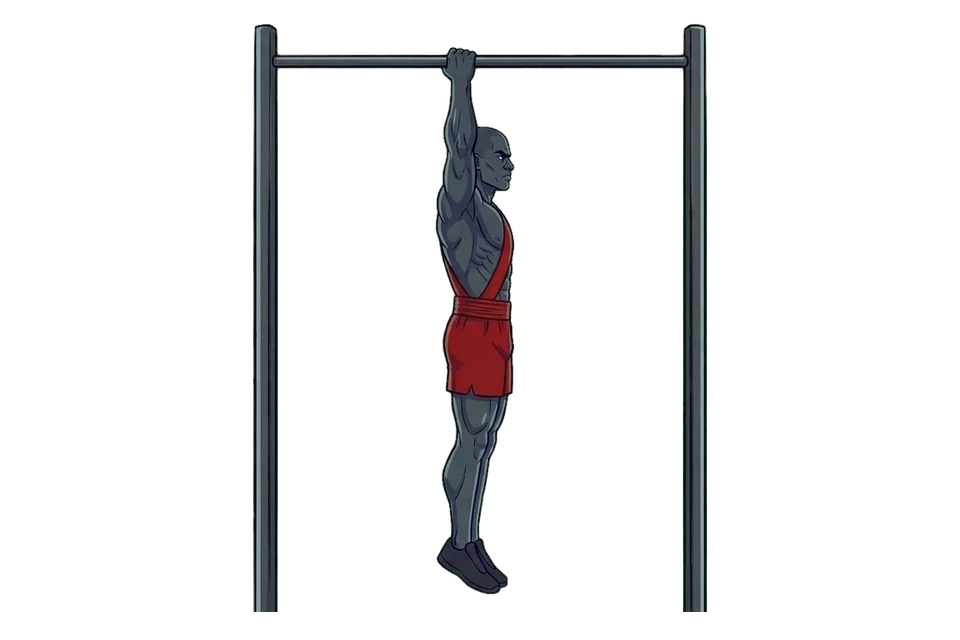
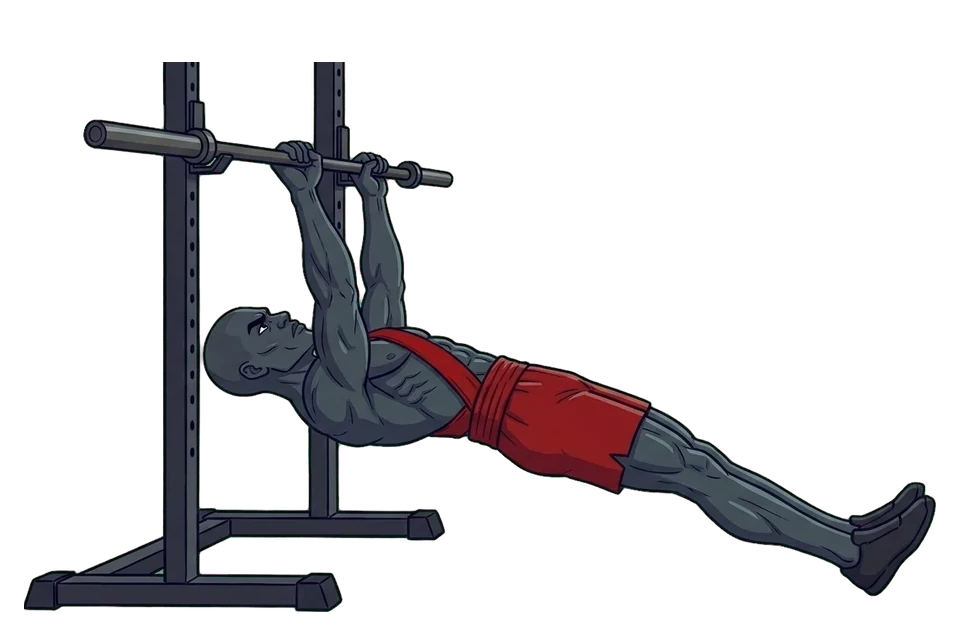
Add 23 high-value exercises with the character and switch to an upper/lower plan
- New exercises with two-frame character pictures: incline barbell and dumbbell press,
  dumbbell and cable fly, parallel bar dips, pull-ups, seated cable row, deadlift, face pull,
  shrugs, cable lateral raise, Arnold press, preacher and cable curl, skull crusher,
  close-grip bench, front squat, Bulgarian split squat, leg extension, leg curl, hack squat,
  hanging leg raise and ab wheel; "pull-up or inverted row" is now two exercises
- Gym and dumbbell plans become upper/lower (four rotating days), so each muscle is trained
  about twice a week with the exercises that pay off most
- Coach recognizes the new exercise names

Changed region(s): [[0.0, 0.0312, 1.0, 0.9688]]

diff --git a/app/data.js b/app/data.js
@@ -179,10 +179,10 @@ export const EXERCISES = {
     tip: 'Bend your knees to make it easier, straighten your legs to make it harder.',
   },
   'inverted-row': {
-    name: 'Pull-up or inverted row', muscles: ['Lats', 'Upper back', 'Biceps'], bw: true, pattern: 'pull', std: ['reps', 3, 25],
-    steps: ['Pull-up: hang from a bar and pull your chest up toward it.', 'No bar? Lie under a sturdy table, hold the edge and pull your chest up to it.', 'Lower all the way down with control.'],
-    mistakes: ['Half reps.', 'Kicking your legs to get up.'],
-    tip: 'Log the version you can do for at least 6 clean reps.',
+    name: 'Inverted row', muscles: ['Upper back', 'Lats', 'Biceps'], bw: true, pattern: 'pull', std: ['reps', 5, 30],
+    steps: ['Lie under a sturdy bar or table edge set at hip height, holding it with straight arms.', 'Keep your body straight and pull your chest up to the bar.', 'Lower all the way down with control.'],
+    mistakes: ['Letting the hips sag.', 'Half reps.'],
+    tip: 'Bend your knees to make it easier, raise your feet to make it harder.',
   },
   'bw-squat': {
     name: 'Bodyweight squat', muscles: ['Quads', 'Glutes'], bw: true, pattern: 'squat', std: ['reps', 10, 60],
@@ -232,26 +232,167 @@ export const EXERCISES = {
     mistakes: ['Arching your lower back.', 'Pushing through your toes.'],
     tip: 'Try one leg at a time once two legs gets easy.',
   },
+  'incline-bench-press': {
+    name: 'Incline bench press', muscles: ['Upper chest', 'Front shoulders', 'Triceps'], pattern: 'push', std: ['ratio', 0.4, 1.4],
+    steps: ['Set the bench to about 30 degrees and lie with your eyes under the bar.', 'Lower the bar with control to the top of your chest.', 'Press up until your arms are straight, shoulder blades pulled back.'],
+    mistakes: ['Setting the bench too steep: it turns into a shoulder press.', 'Bouncing the bar off your chest.'],
+    tip: 'A low incline (about 30 degrees) hits the upper chest best.',
+  },
+  'incline-db-press': {
+    name: 'Incline dumbbell press', muscles: ['Upper chest', 'Front shoulders', 'Triceps'], perHand: true, pattern: 'push', std: ['ratio', 0.15, 0.6],
+    steps: ['Sit on a bench set to about 30 degrees with a dumbbell on each knee, then lie back.', 'Press the dumbbells up over your upper chest.', 'Lower them slowly to the sides of your chest.'],
+    mistakes: ['Clanking the dumbbells together at the top.', 'Dropping them too fast at the bottom.'],
+    tip: 'Dumbbells let each arm work on its own: good for fixing a weaker side.',
+  },
+  'db-fly': {
+    name: 'Dumbbell fly', muscles: ['Chest', 'Front shoulders'], perHand: true, std: ['ratio', 0.06, 0.35],
+    steps: ['Lie on a flat bench with the dumbbells above your chest, palms facing each other.', 'With elbows slightly bent, open your arms out to the sides until you feel a stretch.', 'Bring the dumbbells back up in a wide arc, like hugging a tree.'],
+    mistakes: ['Bending the elbows so much it becomes a press.', 'Going too low and straining the shoulders.'],
+    tip: 'Use light weights: this is about the stretch, not about lifting heavy.',
+  },
+  'cable-fly': {
+    name: 'Cable fly', muscles: ['Chest', 'Front shoulders'], perHand: true, std: ['ratio', 0.06, 0.4],
+    steps: ['Stand between two cable pulleys set high, one handle in each hand, one foot forward.', 'With elbows slightly bent, bring your hands together in front of your chest.', 'Open your arms slowly back to the start, feeling the stretch.'],
+    mistakes: ['Pulling with the arms instead of the chest.', 'Leaning so far forward that the back takes over.'],
+    tip: 'Squeeze for one second when your hands meet.',
+  },
+  'parallel-dip': {
+    name: 'Parallel bar dip', muscles: ['Chest', 'Triceps', 'Front shoulders'], bw: true, pattern: 'push', std: ['reps', 3, 30],
+    steps: ['Hold yourself up on parallel bars with straight arms.', 'Lower slowly until your shoulders are just below your elbows.', 'Push back up until your arms are straight.'],
+    mistakes: ['Shrugging the shoulders up to the ears.', 'Dropping down fast.'],
+    tip: 'Lean forward a little for more chest, stay upright for more triceps.',
+  },
+  'pull-up': {
+    name: 'Pull-up', muscles: ['Lats', 'Upper back', 'Biceps'], bw: true, pattern: 'pull', std: ['reps', 1, 20],
+    steps: ['Hang from a bar with hands a bit wider than your shoulders, arms straight.', 'Pull your chest up until your chin is over the bar.', 'Lower all the way down with control.'],
+    mistakes: ['Kicking and swinging to get up.', 'Half reps that never reach straight arms.'],
+    tip: 'Can not do one yet? Jump up and lower yourself slowly for 5 seconds.',
+  },
+  'cable-row': {
+    name: 'Seated cable row', muscles: ['Upper back', 'Lats', 'Biceps'], pattern: 'pull', std: ['ratio', 0.4, 1.2],
+    steps: ['Sit at the cable row with feet on the platform and knees slightly bent, chest up.', 'Pull the handle to your stomach, squeezing your shoulder blades together.', 'Let your arms stretch forward slowly without rounding your back.'],
+    mistakes: ['Rocking the body back and forth.', 'Rounding the lower back at the stretch.'],
+    tip: 'Think of pulling with your elbows, not with your hands.',
+  },
+  'deadlift': {
+    name: 'Deadlift', muscles: ['Hamstrings', 'Glutes', 'Lower back', 'Upper back'], pattern: 'hinge', std: ['ratio', 1.0, 2.75],
+    steps: ['Stand with the bar over the middle of your feet, grip it just outside your legs.', 'Chest up, back flat, push the floor away and stand up tall with the bar close to your legs.', 'Lower the bar the same way: hips back first, bar sliding down your legs.'],
+    mistakes: ['Rounding the back.', 'Letting the bar drift away from the legs.'],
+    tip: 'Learn it light. A flat back matters more than the weight.',
+  },
+  'face-pull': {
+    name: 'Face pull', muscles: ['Rear shoulders', 'Upper back'], std: ['ratio', 0.1, 0.5],
+    steps: ['Set a rope on a cable at face height and hold both ends, palms facing down.', 'Pull the rope toward your face, separating the ends and pulling the elbows high and back.', 'Return slowly with your arms straight.'],
+    mistakes: ['Using too much weight and leaning back.', 'Pulling to the chest instead of the face.'],
+    tip: 'Great for healthy shoulders and better posture.',
+  },
+  'shrug': {
+    name: 'Dumbbell shrug', muscles: ['Upper back'], perHand: true, std: ['ratio', 0.2, 0.8],
+    steps: ['Stand tall with a heavy dumbbell in each hand at your sides.', 'Lift your shoulders straight up toward your ears.', 'Hold one second and lower slowly.'],
+    mistakes: ['Rolling the shoulders in circles.', 'Bending the arms to help.'],
+    tip: 'Straight up and down: no need to roll.',
+  },
+  'cable-lateral-raise': {
+    name: 'Cable lateral raise', muscles: ['Side shoulders'], std: ['ratio', 0.03, 0.2],
+    steps: ['Stand sideways to a low cable, holding the handle with the far hand in front of your hips.', 'Raise the arm out to the side up to shoulder height, elbow slightly bent.', 'Lower slowly, keeping tension on the cable.'],
+    mistakes: ['Swinging the body.', 'Raising the arm above the shoulder.'],
+    tip: 'The cable keeps tension at the bottom, where dumbbells feel light.',
+  },
+  'arnold-press': {
+    name: 'Arnold press', muscles: ['Front shoulders', 'Side shoulders', 'Triceps'], perHand: true, pattern: 'push', std: ['ratio', 0.12, 0.45],
+    steps: ['Sit or stand with dumbbells in front of your shoulders, palms facing you.', 'Press up while turning the palms to face forward at the top.', 'Lower and turn them back to the start.'],
+    mistakes: ['Arching the lower back.', 'Rushing the turn.'],
+    tip: 'Go slow: the turn is what makes it different from a normal press.',
+  },
+  'preacher-curl': {
+    name: 'Preacher curl', muscles: ['Biceps'], std: ['ratio', 0.15, 0.6],
+    steps: ['Sit at the preacher bench with the back of your arms flat on the pad, holding an EZ bar.', 'Curl the bar up toward your shoulders.', 'Lower slowly until your arms are almost straight.'],
+    mistakes: ['Lifting the elbows off the pad.', 'Dropping fast at the bottom.'],
+    tip: 'The pad stops cheating, so use less weight than a normal curl.',
+  },
+  'cable-curl': {
+    name: 'Cable curl', muscles: ['Biceps', 'Forearms'], std: ['ratio', 0.15, 0.6],
+    steps: ['Stand facing a low cable with a straight bar, elbows at your sides.', 'Curl the bar up to your chest.', 'Lower slowly while the cable keeps pulling.'],
+    mistakes: ['Leaning back to lift.', 'Elbows moving forward.'],
+    tip: 'Good finisher at the end of a workout.',
+  },
+  'skull-crusher': {
+    name: 'Skull crusher', muscles: ['Triceps'], std: ['ratio', 0.15, 0.6],
+    steps: ['Lie on a flat bench holding an EZ bar above your chest with straight arms.', 'Bend only at the elbows to lower the bar toward your forehead.', 'Straighten your arms back up.'],
+    mistakes: ['Elbows flaring out wide.', 'Moving the upper arms instead of only the elbows.'],
+    tip: 'Lower toward the top of your head, not your nose, and go controlled.',
+  },
+  'close-grip-bench': {
+    name: 'Close-grip bench press', muscles: ['Triceps', 'Chest', 'Front shoulders'], pattern: 'push', std: ['ratio', 0.4, 1.4],
+    steps: ['Lie on a flat bench and grip the bar at shoulder width.', 'Lower it to your lower chest with elbows close to your body.', 'Press up until your arms are straight.'],
+    mistakes: ['Hands too close together, which hurts the wrists.', 'Elbows flaring out.'],
+    tip: 'Shoulder-width grip is close enough.',
+  },
+  'front-squat': {
+    name: 'Front squat', muscles: ['Quads', 'Glutes', 'Core'], pattern: 'squat', std: ['ratio', 0.6, 2.0],
+    steps: ['Rest the bar on the front of your shoulders, elbows high.', 'Squat down keeping your chest up and elbows pointing forward.', 'Stand back up through the middle of your feet.'],
+    mistakes: ['Elbows dropping, so the bar rolls forward.', 'Heels lifting off the floor.'],
+    tip: 'Keep the elbows up the whole time.',
+  },
+  'bulgarian-split-squat': {
+    name: 'Bulgarian split squat', muscles: ['Quads', 'Glutes'], perHand: true, pattern: 'squat', std: ['ratio', 0.1, 0.6],
+    steps: ['Stand a big step in front of a bench and put the top of your back foot on it, a dumbbell in each hand.', 'Lower straight down until your front thigh is parallel to the floor.', 'Push through the front foot to stand back up.'],
+    mistakes: ['Front foot too close to the bench.', 'Front knee caving in.'],
+    tip: 'Hard but worth it: one of the best leg exercises with dumbbells.',
+  },
+  'leg-extension': {
+    name: 'Leg extension', muscles: ['Quads'], std: ['ratio', 0.3, 1.2],
+    steps: ['Sit on the machine with the pad on the front of your ankles, back against the seat.', 'Straighten your legs fully and squeeze the thighs.', 'Lower slowly.'],
+    mistakes: ['Swinging the weight up.', 'Lifting the hips off the seat.'],
+    tip: 'Pause one second at the top.',
+  },
+  'leg-curl': {
+    name: 'Leg curl', muscles: ['Hamstrings'], std: ['ratio', 0.2, 0.9],
+    steps: ['Lie face down on the leg curl machine with the pad just above your heels.', 'Curl your heels toward your glutes.', 'Lower slowly until your legs are almost straight.'],
+    mistakes: ['Lifting the hips off the bench.', 'Short, fast reps.'],
+    tip: 'Point your toes up toward your shins for a stronger squeeze.',
+  },
+  'hack-squat': {
+    name: 'Hack squat', muscles: ['Quads', 'Glutes'], pattern: 'squat', std: ['ratio', 0.6, 2.5],
+    steps: ['Stand on the hack squat platform with your back and shoulders against the pads.', 'Release the safeties and squat down until your thighs are parallel.', 'Press back up without locking the knees hard.'],
+    mistakes: ['Heels lifting off the platform.', 'Very short reps with too much weight.'],
+    tip: 'Feet a bit lower on the platform work the quads more.',
+  },
+  'hanging-leg-raise': {
+    name: 'Hanging leg raise', muscles: ['Abs', 'Core'], bw: true, std: ['reps', 3, 25],
+    steps: ['Hang from a pull-up bar with straight arms.', 'Raise your knees (or straight legs) up toward your chest.', 'Lower slowly without swinging.'],
+    mistakes: ['Swinging the body.', 'Dropping the legs fast.'],
+    tip: 'Start with knees bent; straight legs are the advanced version.',
+  },
+  'ab-wheel': {
+    name: 'Ab wheel rollout', muscles: ['Abs', 'Core'], bw: true, std: ['reps', 3, 25],
+    steps: ['Kneel on the floor holding an ab wheel under your shoulders.', 'Roll forward slowly, keeping your back flat and abs tight.', 'Pull back to the start using your abs.'],
+    mistakes: ['Letting the lower back sag.', 'Rolling out farther than you can control.'],
+    tip: 'Go only as far as you can come back with a flat back.',
+  },
 };
 
 const day = (id, name, focus, items) => ({ id, name, focus, items });
 
 // From the "Beginner Routine" article: push / pull / legs, 3 days a week, plus core.
 export const PROGRAMS = {
+  // Upper / lower: each muscle about twice a week, big lifts first, then the exercises with the best stretch and payoff.
   gym: {
-    name: 'Push / Pull / Legs',
+    name: 'Upper / Lower',
     days: [
-      day('push', 'Push', 'Chest, shoulders and triceps', [['bench-press', 4, '8-10'], ['overhead-press', 3, '10-12'], ['lateral-raise', 3, '12-15'], ['triceps-pushdown', 3, '10-12'], ['plank', 3, '30-45']]),
-      day('pull', 'Pull', 'Back and biceps', [['lat-pulldown', 4, '8-10'], ['barbell-row', 3, '10-12'], ['barbell-curl', 3, '10-12'], ['hammer-curl', 2, '12']]),
-      day('legs', 'Legs', 'Full legs', [['squat', 4, '8-10'], ['romanian-deadlift', 3, '10-12'], ['hip-thrust', 3, '10-12'], ['leg-press', 3, '12'], ['calf-raise', 3, '15']]),
+      day('upper-a', 'Upper A', 'Chest, back and arms', [['bench-press', 4, '6-10'], ['lat-pulldown', 4, '8-12'], ['incline-db-press', 3, '8-12'], ['cable-row', 3, '8-12'], ['lateral-raise', 3, '12-20'], ['oh-triceps-extension', 2, '10-12'], ['barbell-curl', 2, '8-12']]),
+      day('lower-a', 'Lower A', 'Quads, hamstrings and calves', [['squat', 4, '6-10'], ['romanian-deadlift', 3, '8-10'], ['leg-press', 3, '10-12'], ['leg-curl', 3, '10-15'], ['calf-raise', 3, '10-15'], ['hanging-leg-raise', 3, '8-15']]),
+      day('upper-b', 'Upper B', 'Shoulders, upper back and arms', [['incline-bench-press', 4, '6-10'], ['pull-up', 3, '5-10'], ['overhead-press', 3, '8-10'], ['db-row', 3, '8-12'], ['lateral-raise', 3, '12-20'], ['preacher-curl', 2, '10-12'], ['skull-crusher', 2, '10-12']]),
+      day('lower-b', 'Lower B', 'Glutes, single leg and abs', [['deadlift', 3, '4-6'], ['bulgarian-split-squat', 3, '8-12'], ['hip-thrust', 3, '8-12'], ['leg-extension', 2, '12-15'], ['calf-raise', 3, '12-20'], ['ab-wheel', 3, '6-12']]),
     ],
   },
   dumbbells: {
-    name: 'Push / Pull / Legs with dumbbells',
+    name: 'Upper / Lower with dumbbells',
     days: [
-      day('push', 'Push', 'Chest, shoulders and triceps', [['db-bench-press', 4, '8-10'], ['db-shoulder-press', 3, '10-12'], ['lateral-raise', 3, '12-15'], ['oh-triceps-extension', 3, '10-12'], ['plank', 3, '30-45']]),
-      day('pull', 'Pull', 'Back and biceps', [['db-row', 4, '8-10'], ['rear-delt-fly', 3, '12-15'], ['db-curl', 3, '10-12'], ['hammer-curl', 2, '12']]),
-      day('legs', 'Legs', 'Full legs', [['goblet-squat', 4, '8-12'], ['db-rdl', 3, '10-12'], ['lunge', 3, '10'], ['calf-raise', 3, '15']]),
+      day('upper-a', 'Upper A', 'Chest, back and arms', [['db-bench-press', 4, '8-12'], ['db-row', 4, '8-12'], ['arnold-press', 3, '8-12'], ['lateral-raise', 3, '12-20'], ['db-curl', 2, '10-12'], ['oh-triceps-extension', 2, '10-12']]),
+      day('lower-a', 'Lower A', 'Quads, hamstrings and calves', [['goblet-squat', 4, '8-12'], ['db-rdl', 3, '8-12'], ['bulgarian-split-squat', 3, '8-12'], ['calf-raise', 3, '12-20'], ['crunch', 3, '12-20']]),
+      day('upper-b', 'Upper B', 'Shoulders, upper back and arms', [['incline-db-press', 4, '8-12'], ['db-row', 3, '8-12'], ['db-fly', 3, '12-15'], ['rear-delt-fly', 3, '12-20'], ['hammer-curl', 2, '10-12'], ['oh-triceps-extension', 2, '10-12']]),
+      day('lower-b', 'Lower B', 'Glutes, single leg and abs', [['db-rdl', 3, '8-12'], ['lunge', 3, '10'], ['goblet-squat', 3, '10-12'], ['calf-raise', 3, '12-20'], ['leg-raise', 3, '10-15']]),
     ],
   },
   bodyweight: {
@@ -344,7 +485,7 @@ export const STANDARDS = {
   'lat-pulldown': ['back', 'ratio', 0.5, 1.3],
   'barbell-row': ['back', 'ratio', 0.5, 1.5],
   'db-row': ['back', 'ratio', 0.2, 0.75],
-  'inverted-row': ['back', 'reps', 3, 25],
+  'inverted-row': ['back', 'reps', 5, 30],
   'squat': ['legs', 'ratio', 0.75, 2.5],
   'goblet-squat': ['legs', 'ratio', 0.2, 0.8],
   'leg-press': ['legs', 'ratio', 1.0, 4.0],
@@ -367,16 +508,39 @@ export const STANDARDS = {
   'superman': ['back', 'reps', 8, 40],
   'diamond-push-up': ['arms', 'reps', 3, 40],
   'backpack-curl': ['arms', 'ratio', 0.08, 0.45],
+  'incline-bench-press': ['chest', 'ratio', 0.4, 1.4],
+  'incline-db-press': ['chest', 'ratio', 0.15, 0.6],
+  'db-fly': ['chest', 'ratio', 0.06, 0.35],
+  'cable-fly': ['chest', 'ratio', 0.06, 0.4],
+  'parallel-dip': ['chest', 'reps', 3, 30],
+  'pull-up': ['back', 'reps', 1, 20],
+  'cable-row': ['back', 'ratio', 0.4, 1.2],
+  'deadlift': ['hinge', 'ratio', 1.0, 2.75],
+  'face-pull': ['shoulders', 'ratio', 0.1, 0.5],
+  'shrug': ['back', 'ratio', 0.2, 0.8],
+  'cable-lateral-raise': ['shoulders', 'ratio', 0.03, 0.2],
+  'arnold-press': ['shoulders', 'ratio', 0.12, 0.45],
+  'preacher-curl': ['arms', 'ratio', 0.15, 0.6],
+  'cable-curl': ['arms', 'ratio', 0.15, 0.6],
+  'skull-crusher': ['arms', 'ratio', 0.15, 0.6],
+  'close-grip-bench': ['arms', 'ratio', 0.4, 1.4],
+  'front-squat': ['legs', 'ratio', 0.6, 2.0],
+  'bulgarian-split-squat': ['legs', 'ratio', 0.1, 0.6],
+  'leg-extension': ['legs', 'ratio', 0.3, 1.2],
+  'leg-curl': ['hinge', 'ratio', 0.2, 0.9],
+  'hack-squat': ['legs', 'ratio', 0.6, 2.5],
+  'hanging-leg-raise': ['core', 'reps', 3, 25],
+  'ab-wheel': ['core', 'reps', 3, 25],
 };
 
 // Where each exercise can be done. Gym covers everything; dumbbells cover dumbbell and bodyweight.
 const DUMBBELL = ['db-bench-press', 'db-shoulder-press', 'db-row', 'db-curl', 'db-rdl', 'lateral-raise', 'hammer-curl',
-  'rear-delt-fly', 'goblet-squat', 'lunge', 'oh-triceps-extension'];
+  'rear-delt-fly', 'goblet-squat', 'lunge', 'oh-triceps-extension', 'incline-db-press', 'db-fly', 'shrug', 'arnold-press', 'bulgarian-split-squat'];
 const HOME_ITEMS = ['backpack-curl']; // household objects, no equipment needed
 export const placeOf = (id) => (EXERCISES[id].bw || HOME_ITEMS.includes(id) ? 'bodyweight' : DUMBBELL.includes(id) ? 'dumbbells' : 'gym');
 export const PLACE_OK = { gym: ['gym', 'dumbbells', 'bodyweight'], dumbbells: ['dumbbells', 'bodyweight'], bodyweight: ['bodyweight'] };
 // Big multi-joint lifts go first in a session.
 export const COMPOUND = ['bench-press', 'db-bench-press', 'push-up', 'overhead-press', 'db-shoulder-press', 'pike-push-up',
   'lat-pulldown', 'barbell-row', 'db-row', 'inverted-row', 'squat', 'goblet-squat', 'leg-press', 'bw-squat', 'split-squat',
-  'lunge', 'romanian-deadlift', 'db-rdl', 'hip-thrust', 'chair-dip'];
+  'lunge', 'romanian-deadlift', 'db-rdl', 'hip-thrust', 'chair-dip', 'incline-bench-press', 'incline-db-press', 'parallel-dip', 'pull-up', 'cable-row', 'deadlift', 'arnold-press', 'close-grip-bench', 'front-squat', 'bulgarian-split-squat', 'hack-squat'];
 export const GROUPS = ['chest', 'shoulders', 'back', 'legs', 'hinge', 'arms', 'core'];

diff --git a/app/i18n.js b/app/i18n.js
@@ -378,7 +378,7 @@ const EX = {
   'push-up': ['Flexiones', ['Manos un poco más anchas que los hombros, cuerpo recto de la cabeza a los talones.', 'Baja hasta que el pecho casi toque el piso, con los codos a unos 45 grados.', 'Empuja de vuelta hacia arriba.'], ['Dejar caer la cadera.', 'Bajar solo hasta la mitad.'], '¿Muy difícil por ahora? Apoya las manos en un banco o una mesa.'],
   'pike-push-up': ['Flexiones en pica', ['Empieza en posición de flexión y camina con los pies hacia las manos para subir la cadera.', 'Dobla los codos y baja la cabeza hacia el piso.', 'Empuja de vuelta.'], ['Bajar la cadera durante la repetición.', 'Abrir mucho los codos.'], 'Entre más alta la cadera, más trabajan los hombros.'],
   'chair-dip': ['Fondos en banco', ['Manos en el borde de un banco o una silla firme detrás de ti.', 'Baja doblando los codos hasta unos 90 grados.', 'Empuja de vuelta hacia arriba.'], ['Bajar tanto que te duelan los hombros.', 'Subir los hombros hacia las orejas.'], 'Dobla las rodillas para hacerlo más fácil y estira las piernas para hacerlo más difícil.'],
-  'inverted-row': ['Dominadas o remo invertido', ['Dominada: cuélgate de una barra y sube el pecho hacia ella.', '¿No tienes barra? Acuéstate debajo de una mesa firme, agarra el borde y sube el pecho hacia ella.', 'Baja completo con control.'], ['Repeticiones a medias.', 'Patear con las piernas para subir.'], 'Anota la versión que puedas hacer al menos 6 veces bien hecha.'],
+  'inverted-row': ['Remo invertido', ['Acuéstate debajo de una barra firme o el borde de una mesa a la altura de la cadera y agárrala con los brazos estirados.', 'Con el cuerpo recto, sube el pecho hasta la barra.', 'Baja completo con control.'], ['Dejar caer la cadera.', 'Repeticiones a medias.'], 'Dobla las rodillas para hacerlo más fácil y sube los pies para hacerlo más difícil.'],
   'bw-squat': ['Sentadilla sin peso', ['Pies al ancho de los hombros y puntas un poco hacia afuera.', 'Baja hacia atrás hasta que los muslos queden al menos paralelos.', 'Sube empujando con todo el pie.'], ['Despegar los talones.', 'Rodillas hacia adentro.'], 'Baja más lento para hacerla más difícil.'],
   'split-squat': ['Sentadilla dividida', ['Un pie adelante y otro atrás, como un paso largo.', 'Baja la rodilla de atrás hacia el piso.', 'Sube empujando con el pie de adelante. Las repeticiones son por pierna.'], ['Despegar el talón de adelante.', 'Inclinarte mucho hacia adelante.'], 'Pon el pie de atrás sobre una silla para hacerla mucho más difícil.'],
   'backpack-curl': ['Curl con mochila', ['Llena una mochila con libros o botellas de agua y agárrala de las correas con las dos manos.', 'Súbela hacia el pecho con los codos pegados a los lados.', 'Bájala despacio.'], ['Balancear la mochila.', 'Mover los codos hacia adelante.'], 'Pesa la mochila en una báscula para poder anotar el peso.'],
@@ -387,9 +387,32 @@ const EX = {
   'superman': ['Superman', ['Acuéstate boca abajo con los brazos estirados al frente.', 'Levanta los brazos, el pecho y las piernas unos centímetros del piso.', 'Aguanta un segundo y baja.'], ['Subir tanto que se te fuerce el cuello.', 'Aguantar la respiración.'], 'Aprieta glúteos y omóplatos arriba.'],
   'diamond-push-up': ['Flexiones diamante', ['Posición de flexión con las manos juntas debajo del pecho, formando un diamante.', 'Baja el pecho hacia las manos con los codos pegados al cuerpo.', 'Empuja de vuelta hacia arriba.'], ['Abrir los codos.', 'Dejar caer la cadera.'], '¿Muy difícil por ahora? Hazlas con las rodillas en el piso.'],
   'glute-bridge': ['Puente de glúteos', ['Acuéstate boca arriba, con las rodillas dobladas y los pies en el piso.', 'Sube la cadera hasta que el cuerpo quede recto de hombros a rodillas.', 'Aprieta un segundo y baja.'], ['Arquear la espalda baja.', 'Empujar con las puntas de los pies.'], 'Cuando se te haga fácil, prueba con una pierna a la vez.'],
+  'incline-bench-press': ['Press inclinado con barra', ['Pon el banco a unos 30 grados y acuéstate con los ojos debajo de la barra.', 'Baja la barra con control hasta la parte alta del pecho.', 'Empuja hasta estirar los brazos, con los omóplatos hacia atrás.'], ['Poner el banco muy inclinado: se vuelve un press de hombro.', 'Rebotar la barra en el pecho.'], 'Una inclinación baja (unos 30 grados) trabaja mejor el pecho alto.'],
+  'incline-db-press': ['Press inclinado con mancuernas', ['Siéntate en un banco a unos 30 grados con una mancuerna en cada rodilla y recuéstate.', 'Empuja las mancuernas hacia arriba sobre la parte alta del pecho.', 'Bájalas lento a los lados del pecho.'], ['Chocar las mancuernas arriba.', 'Dejarlas caer rápido abajo.'], 'Con mancuernas cada brazo trabaja solo: sirve para emparejar un lado más débil.'],
+  'db-fly': ['Aperturas con mancuernas', ['Acuéstate en un banco plano con las mancuernas sobre el pecho y las palmas mirándose.', 'Con los codos un poco doblados, abre los brazos a los lados hasta sentir el estiramiento.', 'Sube las mancuernas en un arco amplio, como si abrazaras un árbol.'], ['Doblar tanto los codos que se vuelve un press.', 'Bajar demasiado y forzar los hombros.'], 'Usa poco peso: aquí importa el estiramiento, no levantar pesado.'],
+  'cable-fly': ['Cruce de poleas', ['Párate entre dos poleas altas, un agarre en cada mano y un pie adelante.', 'Con los codos un poco doblados, junta las manos frente al pecho.', 'Abre los brazos lento hasta el inicio, sintiendo el estiramiento.'], ['Jalar con los brazos en vez del pecho.', 'Inclinarte tanto que trabaja la espalda.'], 'Aprieta un segundo cuando se juntan las manos.'],
+  'parallel-dip': ['Fondos en paralelas', ['Sostente en las barras paralelas con los brazos estirados.', 'Baja lento hasta que los hombros queden un poco abajo de los codos.', 'Empuja hacia arriba hasta estirar los brazos.'], ['Subir los hombros hacia las orejas.', 'Dejarte caer rápido.'], 'Inclínate un poco al frente para más pecho; derecho para más tríceps.'],
+  'pull-up': ['Dominadas', ['Cuélgate de una barra con las manos un poco más abiertas que los hombros y los brazos estirados.', 'Sube el pecho hasta que la barbilla pase la barra.', 'Baja completo con control.'], ['Patear y columpiarte para subir.', 'Repeticiones a medias sin estirar los brazos.'], '¿Todavía no te sale una? Salta arriba y baja lento en 5 segundos.'],
+  'cable-row': ['Remo en polea sentado', ['Siéntate en la polea con los pies en la plataforma, rodillas un poco dobladas y el pecho arriba.', 'Jala el agarre hacia tu abdomen juntando los omóplatos.', 'Deja que los brazos se estiren lento sin redondear la espalda.'], ['Mecer el cuerpo hacia adelante y atrás.', 'Redondear la espalda baja al estirar.'], 'Piensa en jalar con los codos, no con las manos.'],
+  'deadlift': ['Peso muerto', ['Párate con la barra sobre la mitad de los pies y agárrala justo afuera de las piernas.', 'Pecho arriba, espalda recta, empuja el piso y párate derecho con la barra pegada a las piernas.', 'Baja igual: primero la cadera hacia atrás y la barra resbalando por las piernas.'], ['Redondear la espalda.', 'Dejar que la barra se aleje de las piernas.'], 'Apréndelo con poco peso. La espalda recta importa más que el peso.'],
+  'face-pull': ['Face pull (jalón a la cara)', ['Pon una cuerda en la polea a la altura de la cara y agarra los dos extremos.', 'Jala la cuerda hacia tu cara, separando los extremos y llevando los codos altos y hacia atrás.', 'Regresa lento hasta estirar los brazos.'], ['Usar mucho peso y echarte hacia atrás.', 'Jalar al pecho en vez de a la cara.'], 'Excelente para cuidar los hombros y mejorar la postura.'],
+  'shrug': ['Encogimientos con mancuernas', ['Párate derecho con una mancuerna pesada en cada mano a los lados.', 'Sube los hombros recto hacia las orejas.', 'Aguanta un segundo y baja lento.'], ['Girar los hombros en círculos.', 'Doblar los brazos para ayudarte.'], 'Recto arriba y abajo: no hace falta girar.'],
+  'cable-lateral-raise': ['Elevación lateral en polea', ['Párate de lado a una polea baja, con el agarre en la mano más lejana frente a la cadera.', 'Sube el brazo hacia el lado hasta la altura del hombro, con el codo un poco doblado.', 'Baja lento sin perder la tensión del cable.'], ['Balancear el cuerpo.', 'Subir el brazo por encima del hombro.'], 'La polea mantiene tensión abajo, donde las mancuernas se sienten ligeras.'],
+  'arnold-press': ['Press Arnold', ['Sentado o de pie, con las mancuernas frente a los hombros y las palmas mirándote.', 'Empuja hacia arriba girando las palmas para que miren al frente arriba.', 'Baja y gíralas de vuelta al inicio.'], ['Arquear la espalda baja.', 'Hacer el giro con prisa.'], 'Ve lento: el giro es lo que lo hace distinto de un press normal.'],
+  'preacher-curl': ['Curl predicador', ['Siéntate en el banco predicador con la parte de atrás de los brazos apoyada y una barra Z en las manos.', 'Sube la barra hacia los hombros.', 'Baja lento hasta casi estirar los brazos.'], ['Despegar los codos del cojín.', 'Dejar caer el peso abajo.'], 'El cojín no te deja hacer trampa: usa menos peso que en un curl normal.'],
+  'cable-curl': ['Curl en polea', ['Párate frente a una polea baja con barra recta y los codos pegados.', 'Sube la barra hasta el pecho.', 'Baja lento mientras el cable sigue jalando.'], ['Echarte hacia atrás para subir.', 'Mover los codos hacia adelante.'], 'Muy bueno para terminar el entrenamiento.'],
+  'skull-crusher': ['Press francés', ['Acuéstate en un banco plano con una barra Z sobre el pecho y los brazos estirados.', 'Dobla solo los codos para bajar la barra hacia la frente.', 'Estira los brazos de nuevo.'], ['Abrir mucho los codos.', 'Mover los brazos completos en vez de solo los codos.'], 'Baja hacia la parte alta de la cabeza, no hacia la nariz, y con control.'],
+  'close-grip-bench': ['Press de banca cerrado', ['Acuéstate en un banco plano y agarra la barra al ancho de los hombros.', 'Bájala a la parte baja del pecho con los codos pegados al cuerpo.', 'Empuja hasta estirar los brazos.'], ['Juntar demasiado las manos: lastima las muñecas.', 'Abrir los codos.'], 'Al ancho de los hombros ya es suficientemente cerrado.'],
+  'front-squat': ['Sentadilla frontal', ['Apoya la barra en la parte de adelante de los hombros, con los codos altos.', 'Baja en sentadilla con el pecho arriba y los codos apuntando al frente.', 'Sube empujando con la mitad del pie.'], ['Bajar los codos: la barra se va hacia adelante.', 'Levantar los talones.'], 'Mantén los codos arriba todo el tiempo.'],
+  'bulgarian-split-squat': ['Sentadilla búlgara', ['Párate un paso largo delante de un banco y apoya el empeine del pie de atrás en él, con una mancuerna en cada mano.', 'Baja recto hasta que el muslo de adelante quede paralelo al piso.', 'Empuja con el pie de adelante para subir.'], ['Pie de adelante muy cerca del banco.', 'La rodilla de adelante se va hacia adentro.'], 'Difícil pero vale la pena: de los mejores ejercicios de pierna con mancuernas.'],
+  'leg-extension': ['Extensión de cuádriceps', ['Siéntate en la máquina con el cojín al frente de los tobillos y la espalda en el respaldo.', 'Estira las piernas por completo y aprieta los muslos.', 'Baja lento.'], ['Subir el peso de golpe.', 'Levantar la cadera del asiento.'], 'Aguanta un segundo arriba.'],
+  'leg-curl': ['Curl femoral', ['Acuéstate boca abajo en la máquina con el cojín justo arriba de los talones.', 'Lleva los talones hacia los glúteos.', 'Baja lento hasta casi estirar las piernas.'], ['Levantar la cadera del banco.', 'Repeticiones cortas y rápidas.'], 'Apunta los dedos de los pies hacia las espinillas para apretar más.'],
+  'hack-squat': ['Sentadilla hack', ['Párate en la plataforma con la espalda y los hombros contra los cojines.', 'Quita los seguros y baja hasta que los muslos queden paralelos.', 'Empuja hacia arriba sin trabar las rodillas de golpe.'], ['Levantar los talones de la plataforma.', 'Repeticiones muy cortas con demasiado peso.'], 'Con los pies más abajo en la plataforma trabajas más los cuádriceps.'],
+  'hanging-leg-raise': ['Elevación de piernas colgado', ['Cuélgate de una barra con los brazos estirados.', 'Sube las rodillas (o las piernas rectas) hacia el pecho.', 'Baja lento sin columpiarte.'], ['Columpiar el cuerpo.', 'Dejar caer las piernas rápido.'], 'Empieza con las rodillas dobladas; las piernas rectas son la versión avanzada.'],
+  'ab-wheel': ['Rueda abdominal', ['Arrodíllate en el piso con la rueda abdominal debajo de los hombros.', 'Rueda hacia adelante lento, con la espalda recta y el abdomen apretado.', 'Regresa al inicio usando el abdomen.'], ['Dejar caer la espalda baja.', 'Ir más lejos de lo que puedes controlar.'], 'Llega solo hasta donde puedas regresar con la espalda recta.'],
 };
-const PROG = { gym: 'Empuje / Jalón / Piernas', dumbbells: 'Empuje / Jalón / Piernas con mancuernas', bodyweight: 'Cuerpo completo en casa' };
-const DAYS = { push: ['Empuje', 'Pecho, hombros y tríceps'], pull: ['Jalón', 'Espalda y bíceps'], legs: ['Piernas', 'Piernas completas'], a: ['Cuerpo completo A', 'Flexiones, sentadillas y remos'], b: ['Cuerpo completo B', 'Hombros, piernas y glúteos'] };
+const PROG = { gym: 'Torso / Pierna', dumbbells: 'Torso / Pierna con mancuernas', bodyweight: 'Cuerpo completo en casa' };
+const DAYS = { 'upper-a': ['Torso A', 'Pecho, espalda y brazos'], 'lower-a': ['Pierna A', 'Cuádriceps, femorales y pantorrillas'], 'upper-b': ['Torso B', 'Hombros, espalda alta y brazos'], 'lower-b': ['Pierna B', 'Glúteos, una pierna y abdomen'], push: ['Empuje', 'Pecho, hombros y tríceps'], pull: ['Jalón', 'Espalda y bíceps'], legs: ['Piernas', 'Piernas completas'], a: ['Cuerpo completo A', 'Flexiones, sentadillas y remos'], b: ['Cuerpo completo B', 'Hombros, piernas y glúteos'] };
 const OPTS = {
   muscle: ['Ganar músculo', 'Verte más grande y definido'], strength: ['Ser más fuerte', 'Levantar más en los ejercicios principales'], fat: ['Bajar grasa', 'Mantener el músculo mientras te defines'], habit: ['Crear el hábito', 'Entrenar constante, semana tras semana'],
   beginner: ['Principiante', 'Menos de 1 año entrenando'], intermediate: ['Intermedio', 'De 1 a 3 años'], advanced: ['Avanzado', 'Más de 3 años'], comeback: ['Regresando', 'Vuelves después de un descanso'],

diff --git a/app/moves.js b/app/moves.js
@@ -1,2 +1,2 @@
 // Written by avatar-images/prepare_moves.py: the moves that have pictures of the character in moves/.
-export const MOVES = ["backpack-curl", "barbell-curl", "barbell-row", "bench-press", "block", "bw-squat", "calf-raise", "chair-dip", "cross", "crunch", "db-bench-press", "db-curl", "db-rdl", "db-row", "db-shoulder-press", "diamond-push-up", "double-leg", "footwork", "glute-bridge", "goblet-squat", "hammer-curl", "hip-thrust", "hook", "inverted-row", "jab", "lat-pulldown", "lateral-raise", "leg-press", "leg-raise", "low-kick", "lunge", "mma-stance", "mt-check", "mt-elbow", "mt-knee", "mt-roundhouse", "oh-triceps-extension", "overhead-press", "pike-push-up", "plank", "push-up", "rear-delt-fly", "romanian-deadlift", "shrimp", "slip", "sprawl", "squat", "stance", "standup", "superman", "teep", "triceps-pushdown", "uppercut"];
+export const MOVES = ["ab-wheel", "arnold-press", "backpack-curl", "barbell-curl", "barbell-row", "bench-press", "block", "bulgarian-split-squat", "bw-squat", "cable-curl", "cable-fly", "cable-lateral-raise", "cable-row", "calf-raise", "chair-dip", "close-grip-bench", "cross", "crunch", "db-bench-press", "db-curl", "db-fly", "db-rdl", "db-row", "db-shoulder-press", "deadlift", "diamond-push-up", "double-leg", "face-pull", "footwork", "front-squat", "glute-bridge", "goblet-squat", "hack-squat", "hammer-curl", "hanging-leg-raise", "hip-thrust", "hook", "incline-bench-press", "incline-db-press", "inverted-row", "jab", "lat-pulldown", "lateral-raise", "leg-curl", "leg-extension", "leg-press", "leg-raise", "low-kick", "lunge", "mma-stance", "mt-check", "mt-elbow", "mt-knee", "mt-roundhouse", "oh-triceps-extension", "overhead-press", "parallel-dip", "pike-push-up", "plank", "preacher-curl", "pull-up", "push-up", "rear-delt-fly", "romanian-deadlift", "shrimp", "shrug", "skull-crusher", "slip", "sprawl", "squat", "stance", "standup", "superman", "teep", "triceps-pushdown", "uppercut"];

diff --git a/app/coach.js b/app/coach.js
@@ -153,15 +153,21 @@ const HOW = ['como', 'how', 'tecnica', 'hacer', 'hago', 'se hace', 'explica', 'e
 const ALIAS = {
   'push-up': ['lagartija', 'flexion de pecho', 'pushup', 'push up', 'planchas de pecho'],
   'bench-press': ['press banca', 'banca', 'press de pecho', 'bench'],
-  'inverted-row': ['dominada', 'pull up', 'pullup', 'chin up', 'barra fija'],
+  'pull-up': ['dominada', 'pull up', 'pullup', 'chin up', 'barra fija'],
+  'inverted-row': ['remo invertido', 'remo australiano', 'australian row'],
   'crunch': ['abdominales', 'crunches', 'sit up', 'situp'],
   'squat': ['sentadillas'],
-  'romanian-deadlift': ['peso muerto', 'deadlift', 'rdl'],
+  'romanian-deadlift': ['rdl', 'peso muerto rumano'],
+  'deadlift': ['peso muerto', 'deadlift'],
+  'incline-bench-press': ['press inclinado', 'banca inclinada'],
+  'bulgarian-split-squat': ['bulgara', 'bulgarian'],
+  'skull-crusher': ['press frances', 'rompecraneos'],
+  'parallel-dip': ['fondos en paralelas', 'paralelas'],
   'hip-thrust': ['hip thrust', 'empuje de cadera'],
   'lunge': ['zancada', 'estocada', 'lunges'],
   'overhead-press': ['press militar', 'press de hombro', 'ohp'],
   'lat-pulldown': ['jalon', 'polea al pecho'],
-  'chair-dip': ['fondos', 'dips', 'dip'],
+  'chair-dip': ['fondos en banco', 'fondos en silla', 'bench dip'],
   'plank': ['planchas', 'plank'],
   'barbell-curl': ['curl de biceps', 'curl biceps', 'biceps curl', 'curl'],
   'triceps-pushdown': ['polea triceps', 'triceps en polea'],

diff --git a/app/app.js b/app/app.js
@@ -1804,7 +1804,7 @@ function demoBox(kind, id, nSteps = 3) {
 // Pictures of the character (made in Google Flow, listed in moves.js) take the drawing's place wherever they exist.
 const MOVE_ALIAS = {
   'split-squat': 'lunge', 'mt-stance': 'stance', 'mt-teep': 'teep', 'mt-roundhouse': 'low-kick',
-  'cali-pushup': 'push-up', 'cali-pullup': 'inverted-row', 'cali-dip': 'chair-dip', 'cali-pike': 'pike-push-up',
+  'cali-pushup': 'push-up', 'cali-pullup': 'pull-up', 'cali-dip': 'chair-dip', 'cali-pike': 'pike-push-up',
   'cali-squat': 'bw-squat', 'cali-plank': 'plank', 'cali-legraise': 'leg-raise',
 };
 const moveId = (id) => (MOVES.includes(id) ? id : MOVES.includes(MOVE_ALIAS[id]) ? MOVE_ALIAS[id] : null);
